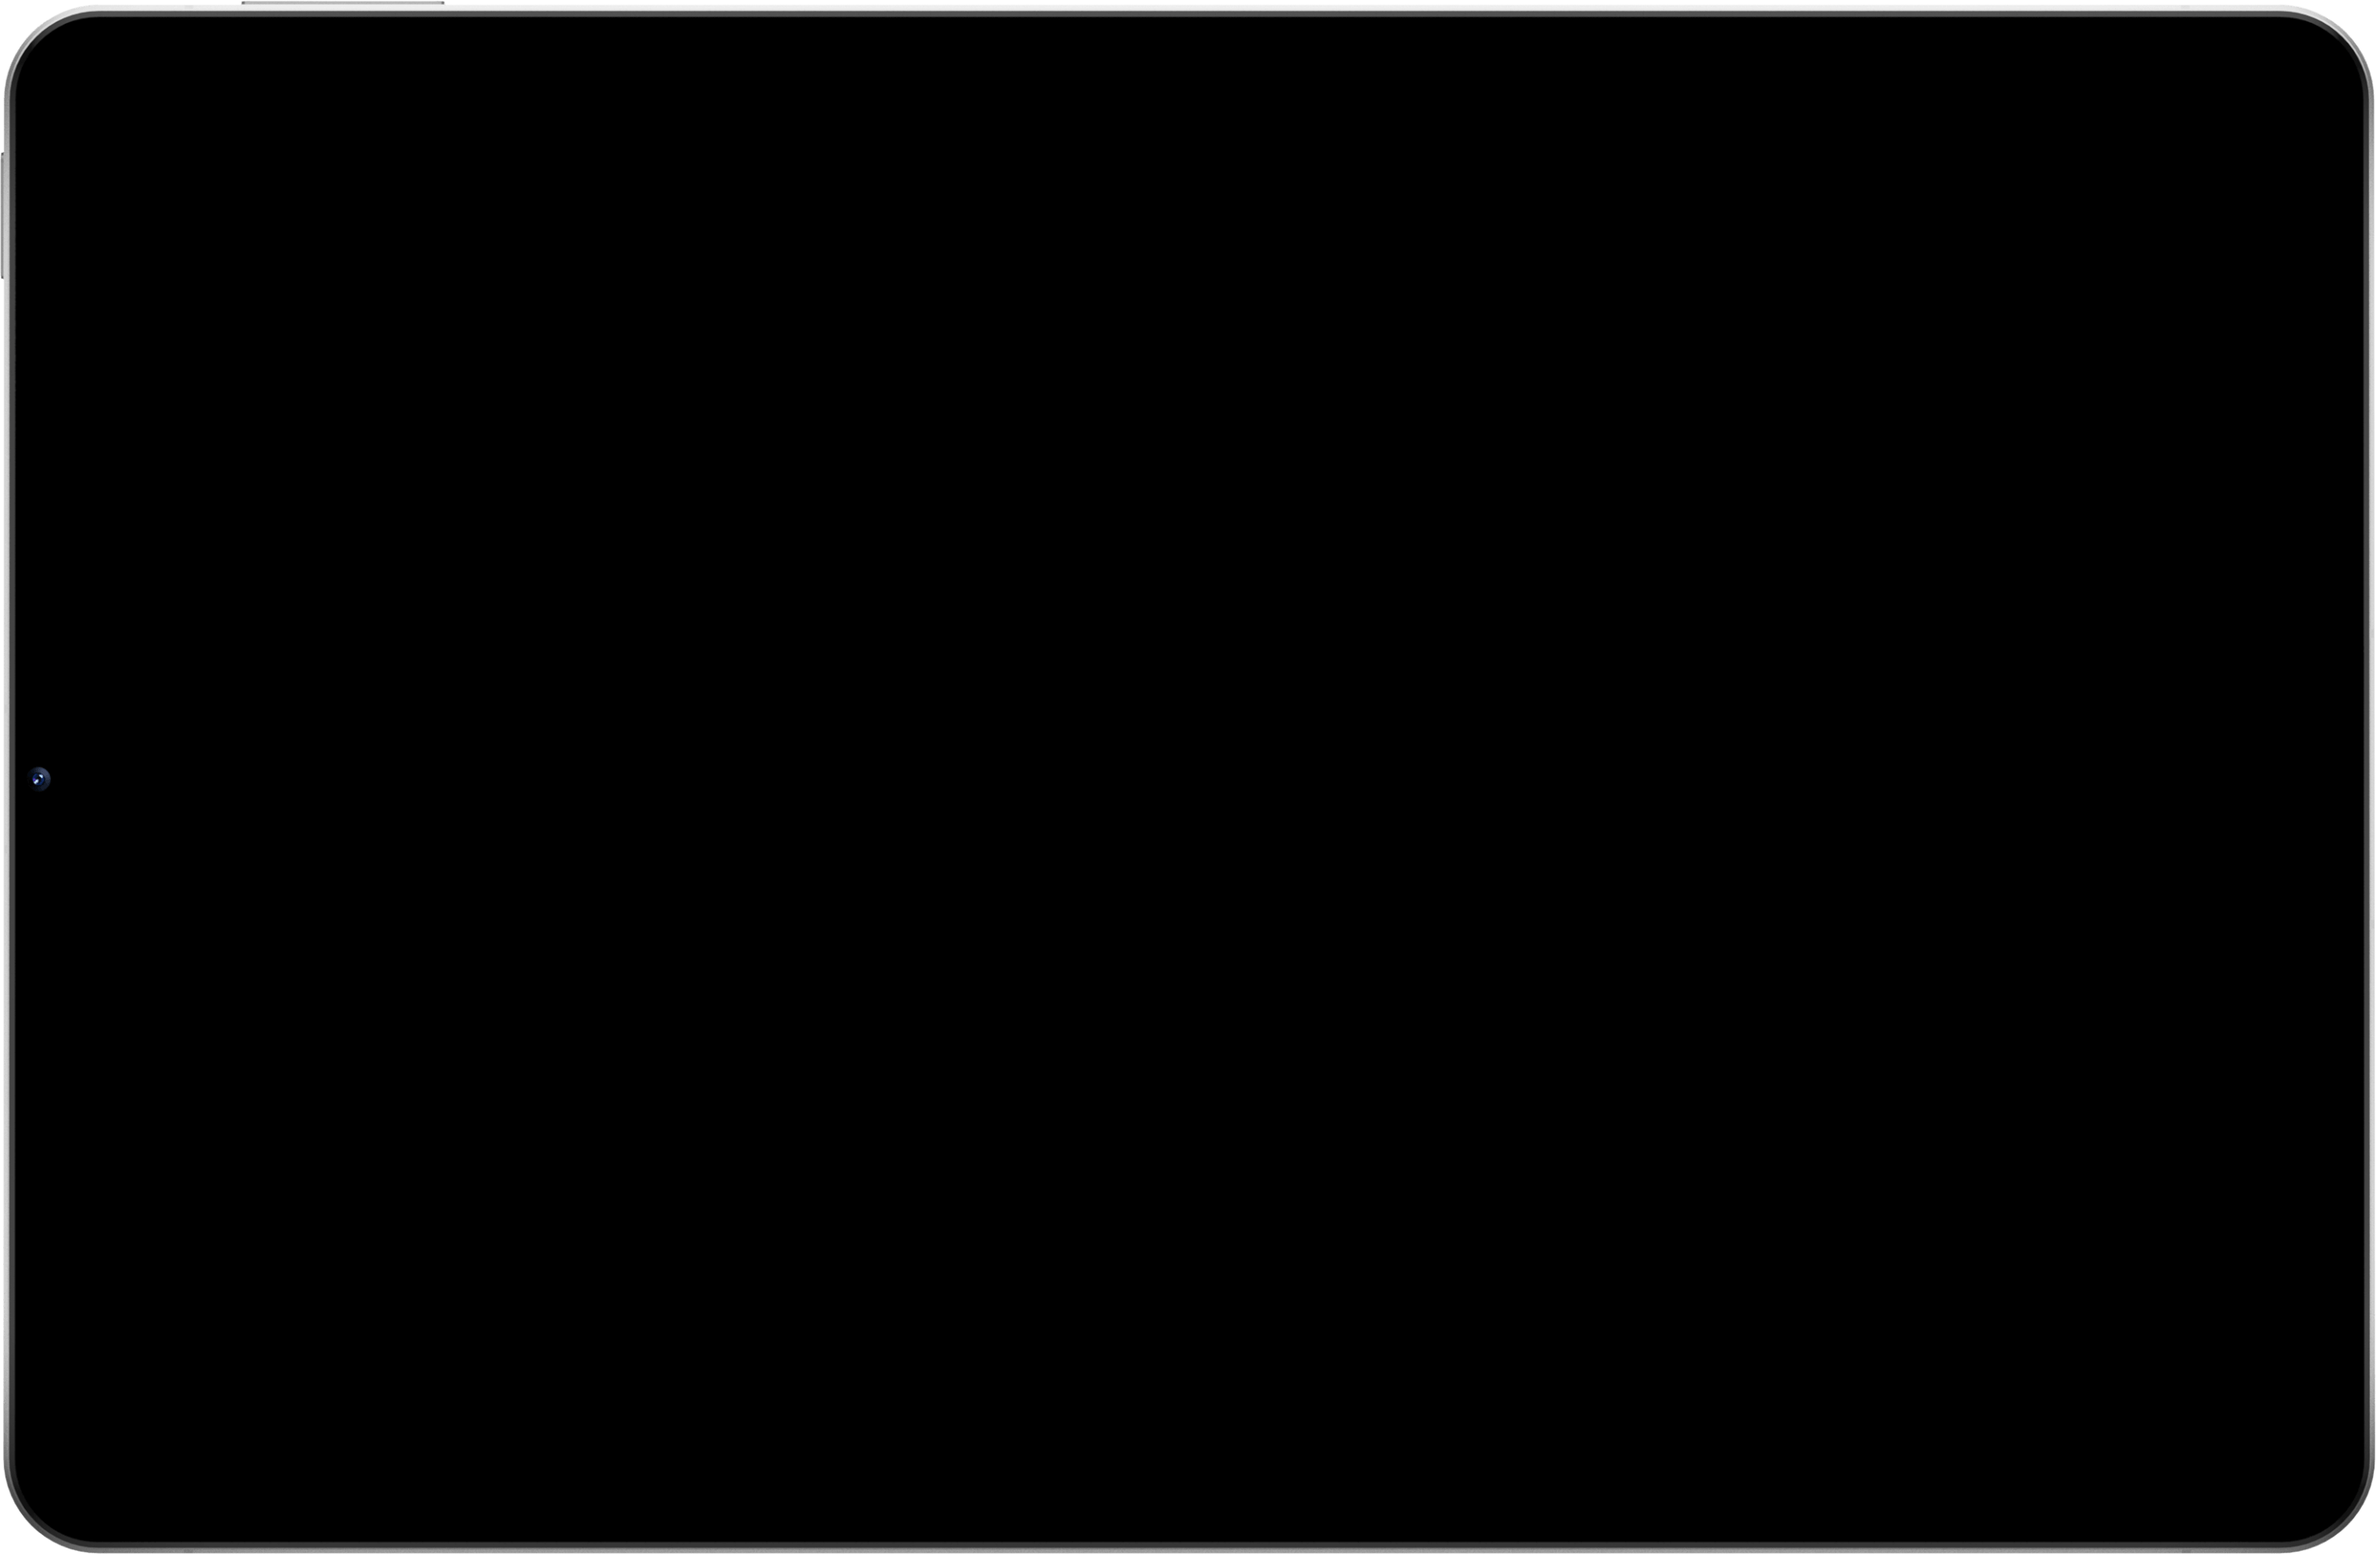
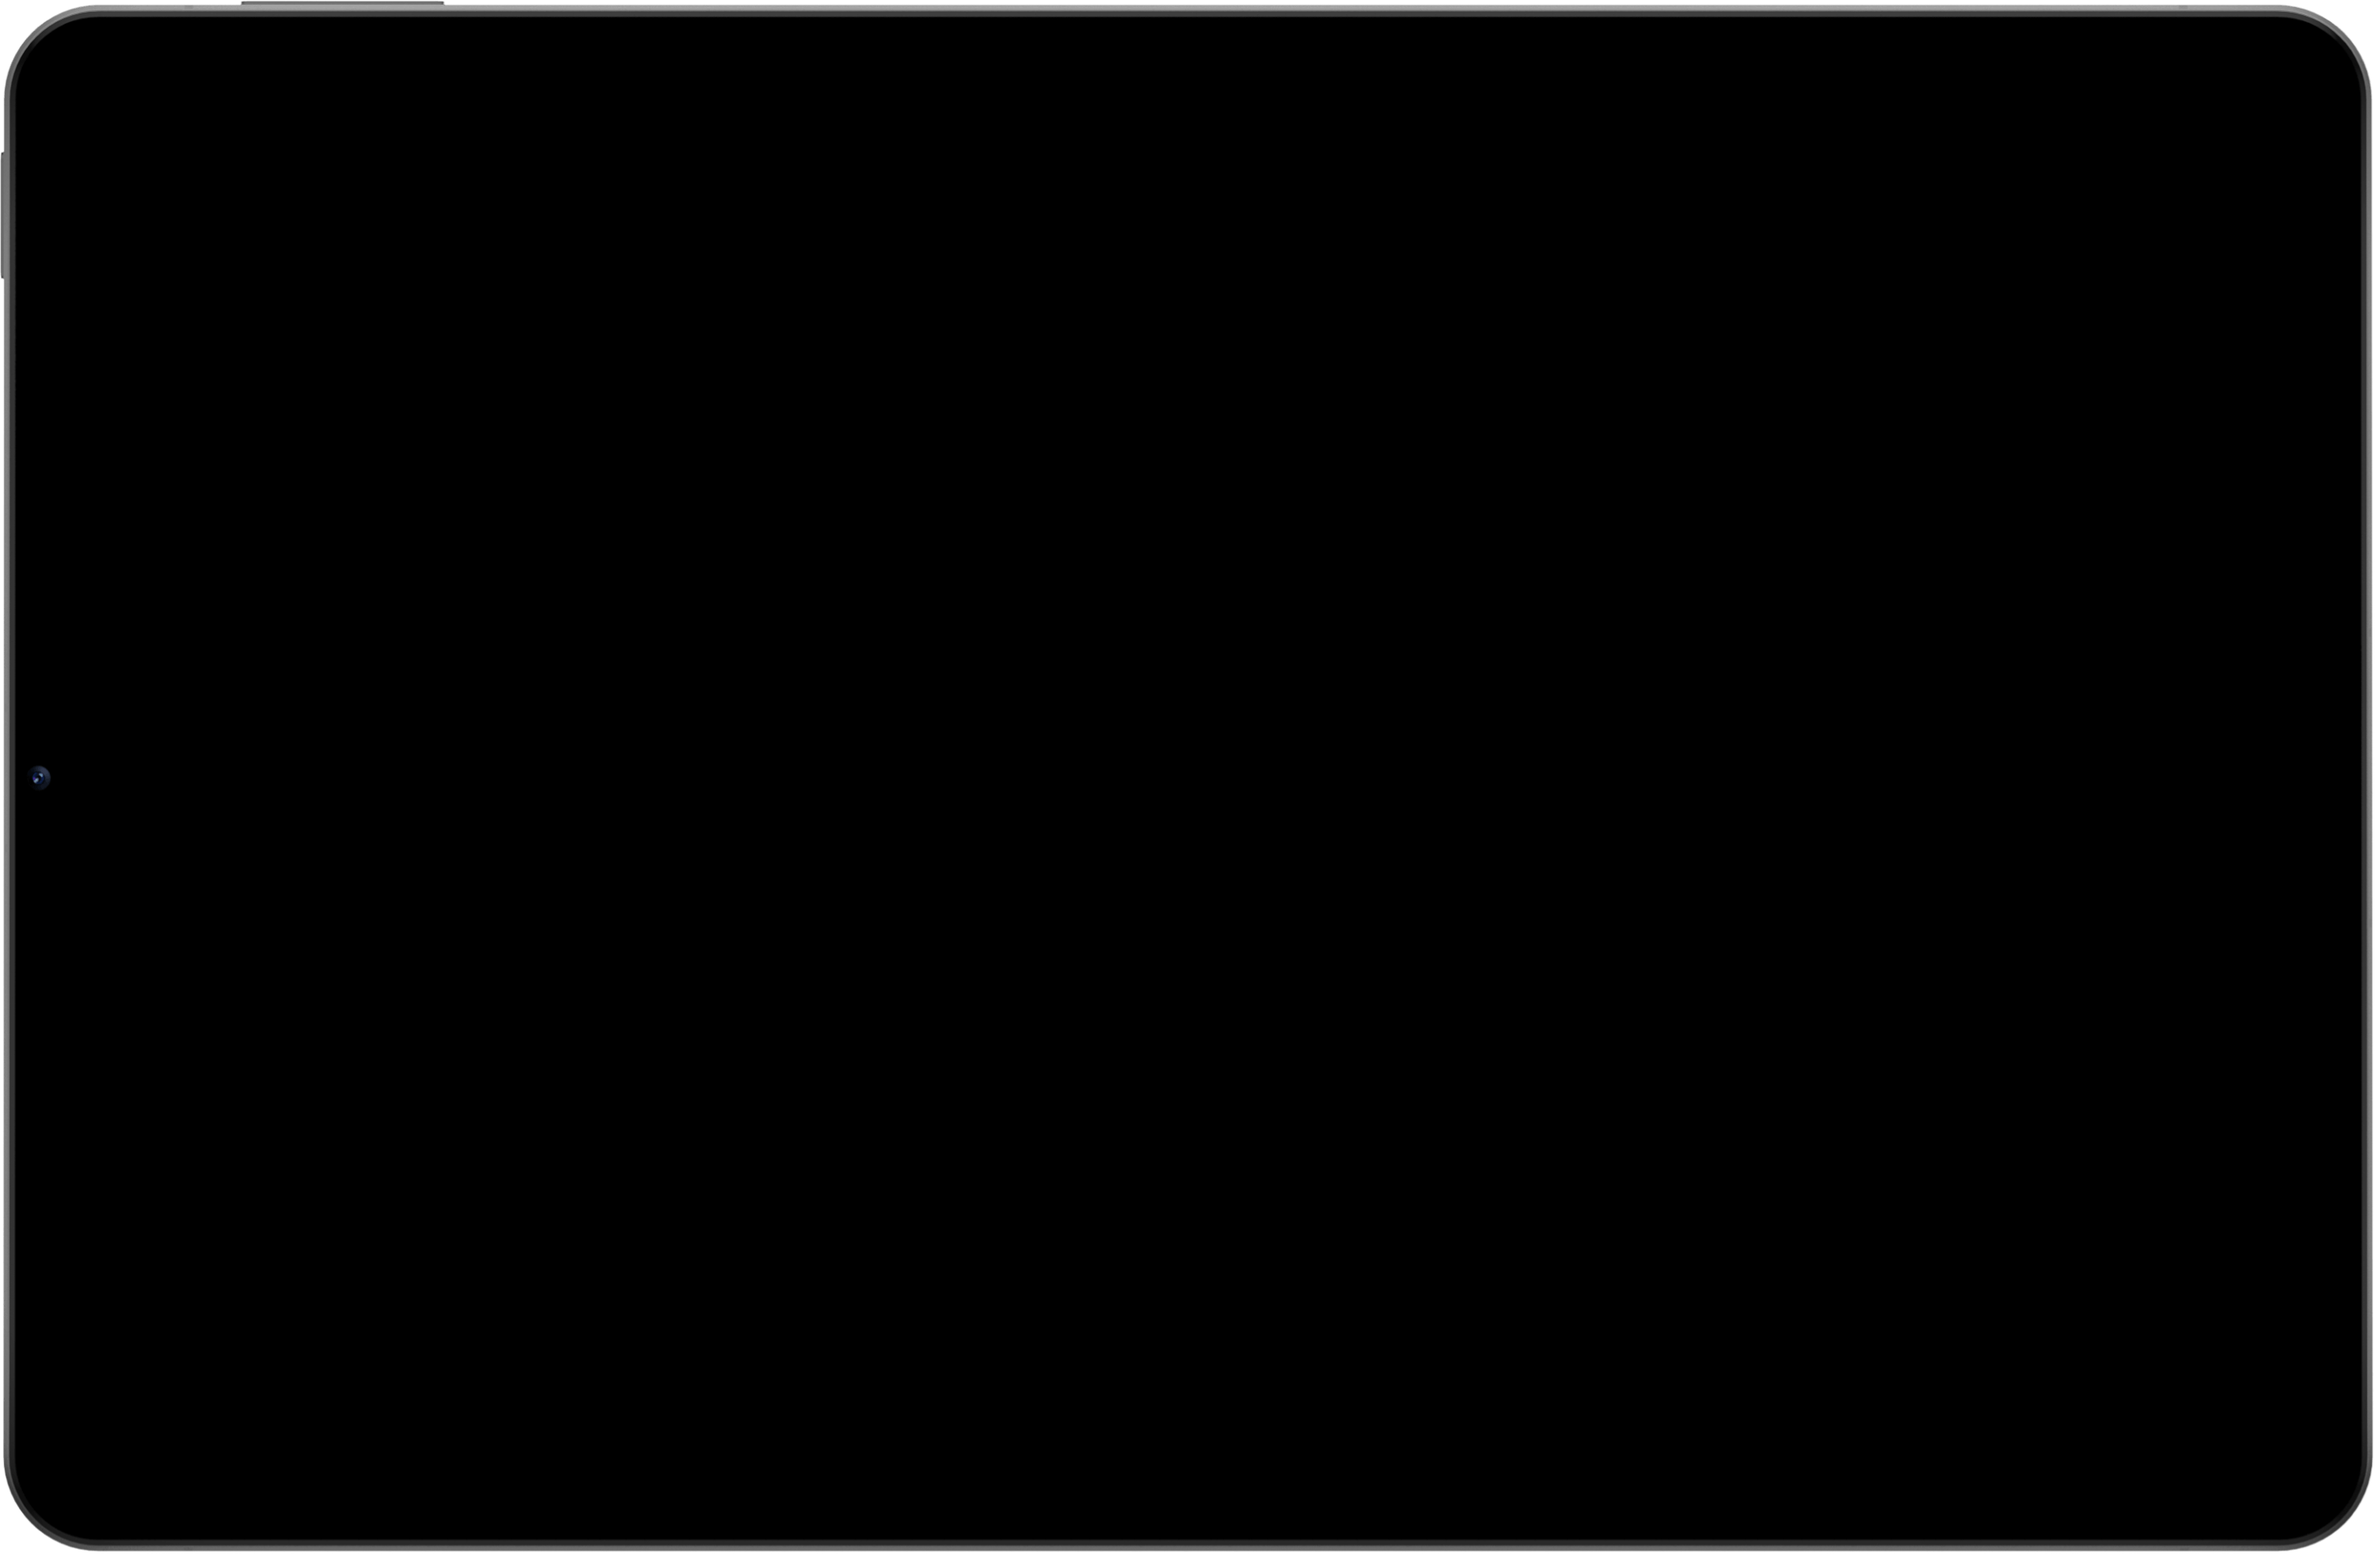
asset updates

diff --git a/components/ScrollVideo/FeatureScrollVideo.tsx b/components/ScrollVideo/FeatureScrollVideo.tsx
@@ -27,6 +27,7 @@ import { useIsLowPowerMode } from "@/hooks/useIsLowPowerMode";
 type Props = {
   playbackConst: number; // higher it is, the slower it plays
   children: React.ReactNode;
+  headline: string;
   onVideoReady?: () => void;
   onLowPowerModeDetected?: () => void;
 };
@@ -34,6 +35,7 @@ type Props = {
 const FeatureScrollVideo = ({
   playbackConst,
   children,
+  headline,
   onVideoReady,
   onLowPowerModeDetected,
 }: Props) => {
@@ -58,7 +60,7 @@ const FeatureScrollVideo = ({
     if (!isVideoReady) return;
 
     const scrolledOffset = latest - bounds.top;
-    seek(duration * (scrolledOffset / bounds.height) * 1.5);
+    seek(duration * 1.5 * (scrolledOffset / bounds.height));
   });
 
   // This useEffect stops the video instantaneously after
@@ -71,7 +73,7 @@ const FeatureScrollVideo = ({
     if (!isVideoReady) return;
     videoRef.current.pause();
     const scrolledOffset = scrollY.get() - bounds.top;
-    seek(duration * (scrolledOffset / bounds.height) * 1.5);
+    seek(duration * 1.5 * (scrolledOffset / bounds.height));
   }, [
     bounds.height,
     bounds.top,
@@ -98,7 +100,7 @@ const FeatureScrollVideo = ({
   const screenOpacity = useTransform(scrollYProgress, [0.7, 1], [0, 1], {
     ease: cubicBezier(0.16, 1, 0.3, 1),
   });
-  const glareOpacity = useTransform(scrollYProgress, [0.9, 1], [0, 1], {
+  const glareOpacity = useTransform(scrollYProgress, [0.8, 1], [0, 1], {
     ease: cubicBezier(0.16, 1, 0.3, 1),
   });
 
@@ -129,7 +131,7 @@ const FeatureScrollVideo = ({
 
   return (
     <motion.div
-      className={"relative flex w-full items-start"}
+      className={"relative flex w-full items-start bg-[#F5F5F7]"}
       initial={{
         opacity: 0,
       }}
@@ -141,9 +143,12 @@ const FeatureScrollVideo = ({
       }}
       ref={containerRef}
     >
-      <div className="sticky top-0 flex h-screen w-full items-center justify-center">
+      <div className="sticky top-0 flex h-screen w-full flex-col items-center justify-center">
+        <h2 className="font-sans-4xl absolute top-0 mx-4 max-w-[20ch] text-center">
+          {headline}
+        </h2>
         <motion.div
-          className="z-10 w-fit"
+          className="relative z-10 w-fit"
           style={{
             rotateY: rotHor,
             rotateX: rotVert,
@@ -156,24 +161,13 @@ const FeatureScrollVideo = ({
           }}
           ref={mouseContainerRef}
         >
-          <div className="absolute inset-0 grid grid-cols-1 grid-rows-1 p-[0.25%] pl-[0.5%] pt-[0.5%]">
-            <div
+          <div className="absolute inset-0 grid grid-cols-1 grid-rows-1 px-[0.3%] py-[0.4%]">
+            <motion.div
               className="relative overflow-hidden"
-              style={{ borderRadius: "4.5%" }}
+              style={{ borderRadius: "2.3vw" }}
             >
-              {/* <motion.div
-                style={{
-                  opacity: glareOpacity,
-                  y: highlightY,
-                  x: highlightX,
-                  background:
-                    "radial-gradient(circle closest-side, rgba(255,104,0,.2), rgba(255,104,0,0))",
-                  transition: `transform 1s cubic-bezier(0.16, 1, 0.3, 1)`,
-                }}
-                className="absolute inset-0 z-10 h-[200%] w-[200%]"
-              /> */}
               <motion.img
-                src={"/ipad-section/glare-coloured.png"}
+                src={"/ipad-section/glare-edges.png"}
                 style={{
                   minWidth: "300%",
                   opacity: glareOpacity,
@@ -181,9 +175,15 @@ const FeatureScrollVideo = ({
                   x: highlightX,
                   transition: `transform 1s cubic-bezier(0.16, 1, 0.3, 1)`,
                 }}
-                className="relative inset-0 left-[50%] top-[50%] z-10"
+                className="relative inset-0 left-[50%] top-[50%]"
               />
-            </div>
+            </motion.div>
+          </div>
+          <div className="absolute inset-0 grid grid-cols-1 grid-rows-1 px-[0.6%] py-[0.7%]">
+            <div
+              className="relative overflow-hidden bg-black"
+              style={{ borderRadius: "2.2vw" }}
+            ></div>
           </div>
           <motion.div
             className="absolute inset-0 p-[3%] pr-[3%]"
@@ -197,12 +197,11 @@ const FeatureScrollVideo = ({
             />
           </motion.div>
           <motion.div
-            className="absolute left-[50%] top-[50%] h-fit w-[19vw]"
+            className="absolute left-[50%] top-[50%] h-fit w-[17.5vw]"
             style={{
               x: "-50%",
               y: videoY,
               scale: videoScale,
-              // mixBlendMode: scrollYProgress.get() === 1 ? "screen" : undefined,
             }}
           >
             <video
@@ -220,8 +219,40 @@ const FeatureScrollVideo = ({
               {children}
             </video>
           </motion.div>
+
+          <div className="absolute inset-0 grid grid-cols-1 grid-rows-1 p-[0.3%] pl-[0.5%] pt-[0.5%]">
+            <div
+              className="relative overflow-hidden"
+              style={{ borderRadius: "2.4vw" }}
+            >
+              <motion.img
+                src={"/ipad-section/glare-test.png"}
+                style={{
+                  minWidth: "300%",
+                  opacity: glareOpacity,
+                  y: highlightY,
+                  x: highlightX,
+                  transition: `transform 1s cubic-bezier(0.16, 1, 0.3, 1)`,
+                }}
+                className="relative inset-0 left-[50%] top-[50%]"
+              />
+            </div>
+          </div>
+
+          {/* <motion.img
+            src={"/ipad-section/glare-bloom.png"}
+            style={{
+              minWidth: "50%",
+              opacity: glareOpacity,
+              x: highlightX,
+              y: "50%",
+              transition: `transform 1s cubic-bezier(0.16, 1, 0.3, 1)`,
+            }}
+            className="absolute bottom-0 left-[150%]"
+          /> */}
+
           <motion.div
-            className="relative h-fit w-[65vw]"
+            className="relative h-fit w-[60vw]"
             style={{
               zIndex: -1,
               scale: videoScale,

diff --git a/components/FeatureOverviewSection/FeatureOverviewSection.tsx b/components/FeatureOverviewSection/FeatureOverviewSection.tsx
@@ -14,6 +14,7 @@ const FeatureOverviewSection = (props: Props) => {
         <FeatureScrollVideo
           playbackConst={400}
           onLowPowerModeDetected={() => setIsLowPowerMode(true)}
+          headline={"Meet the world's most comprehensive digital clinic."}
         >
           <source
             type='video/mp4; codecs="avc1.42E01E, mp4a.40.2"'
